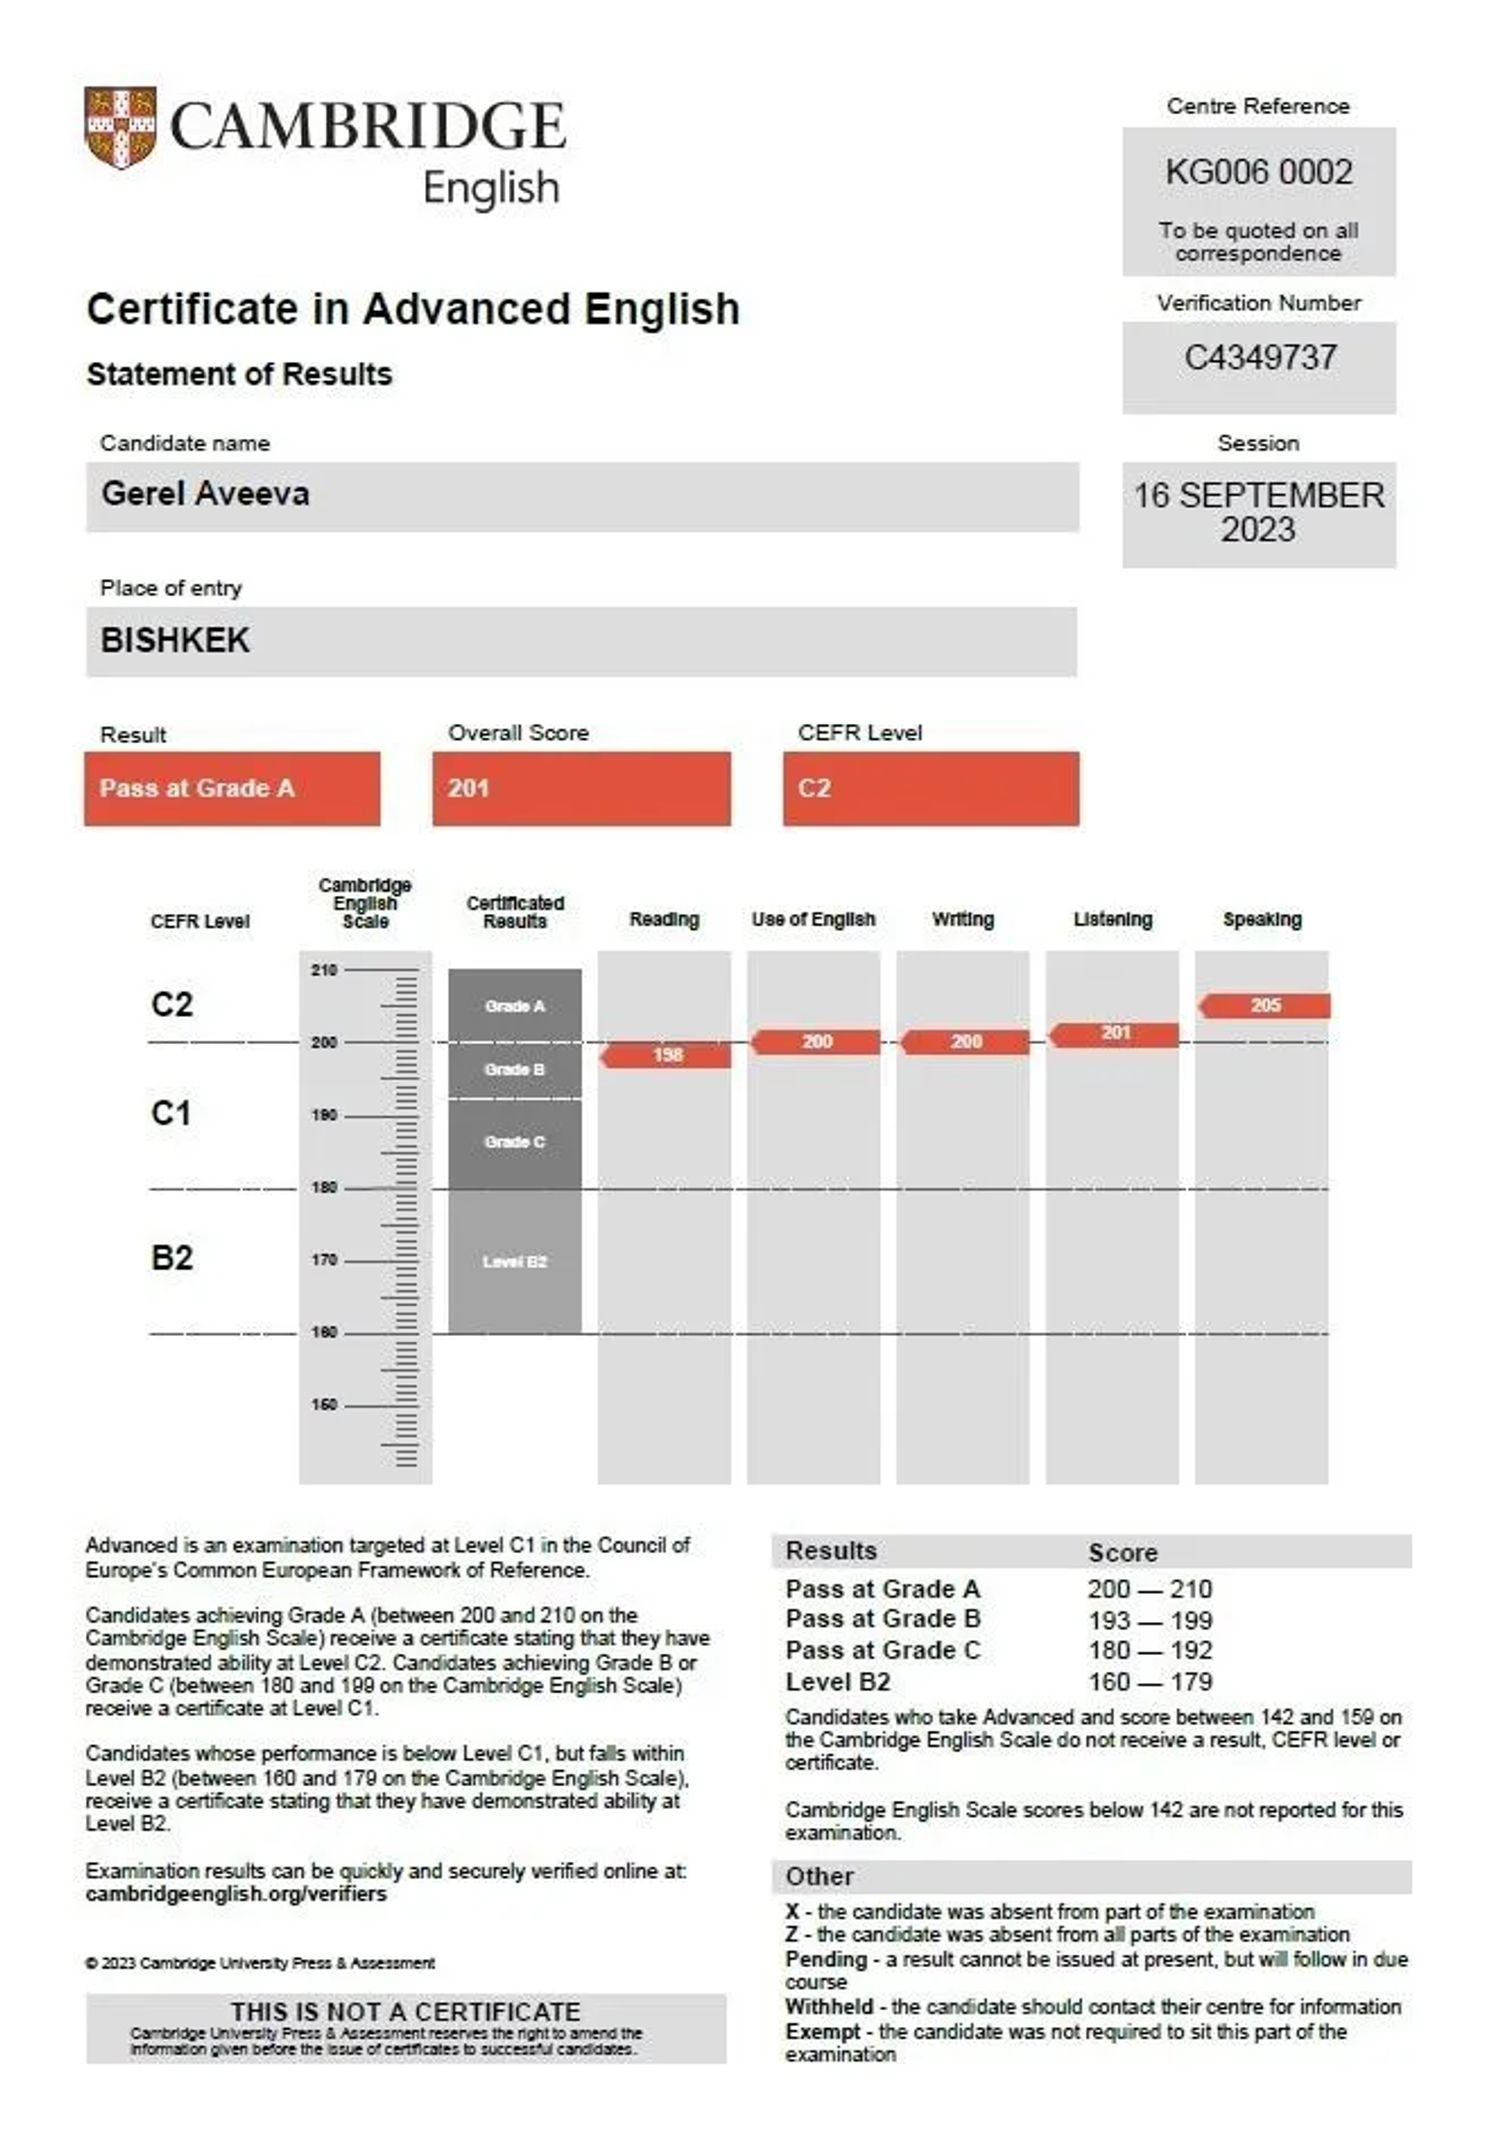
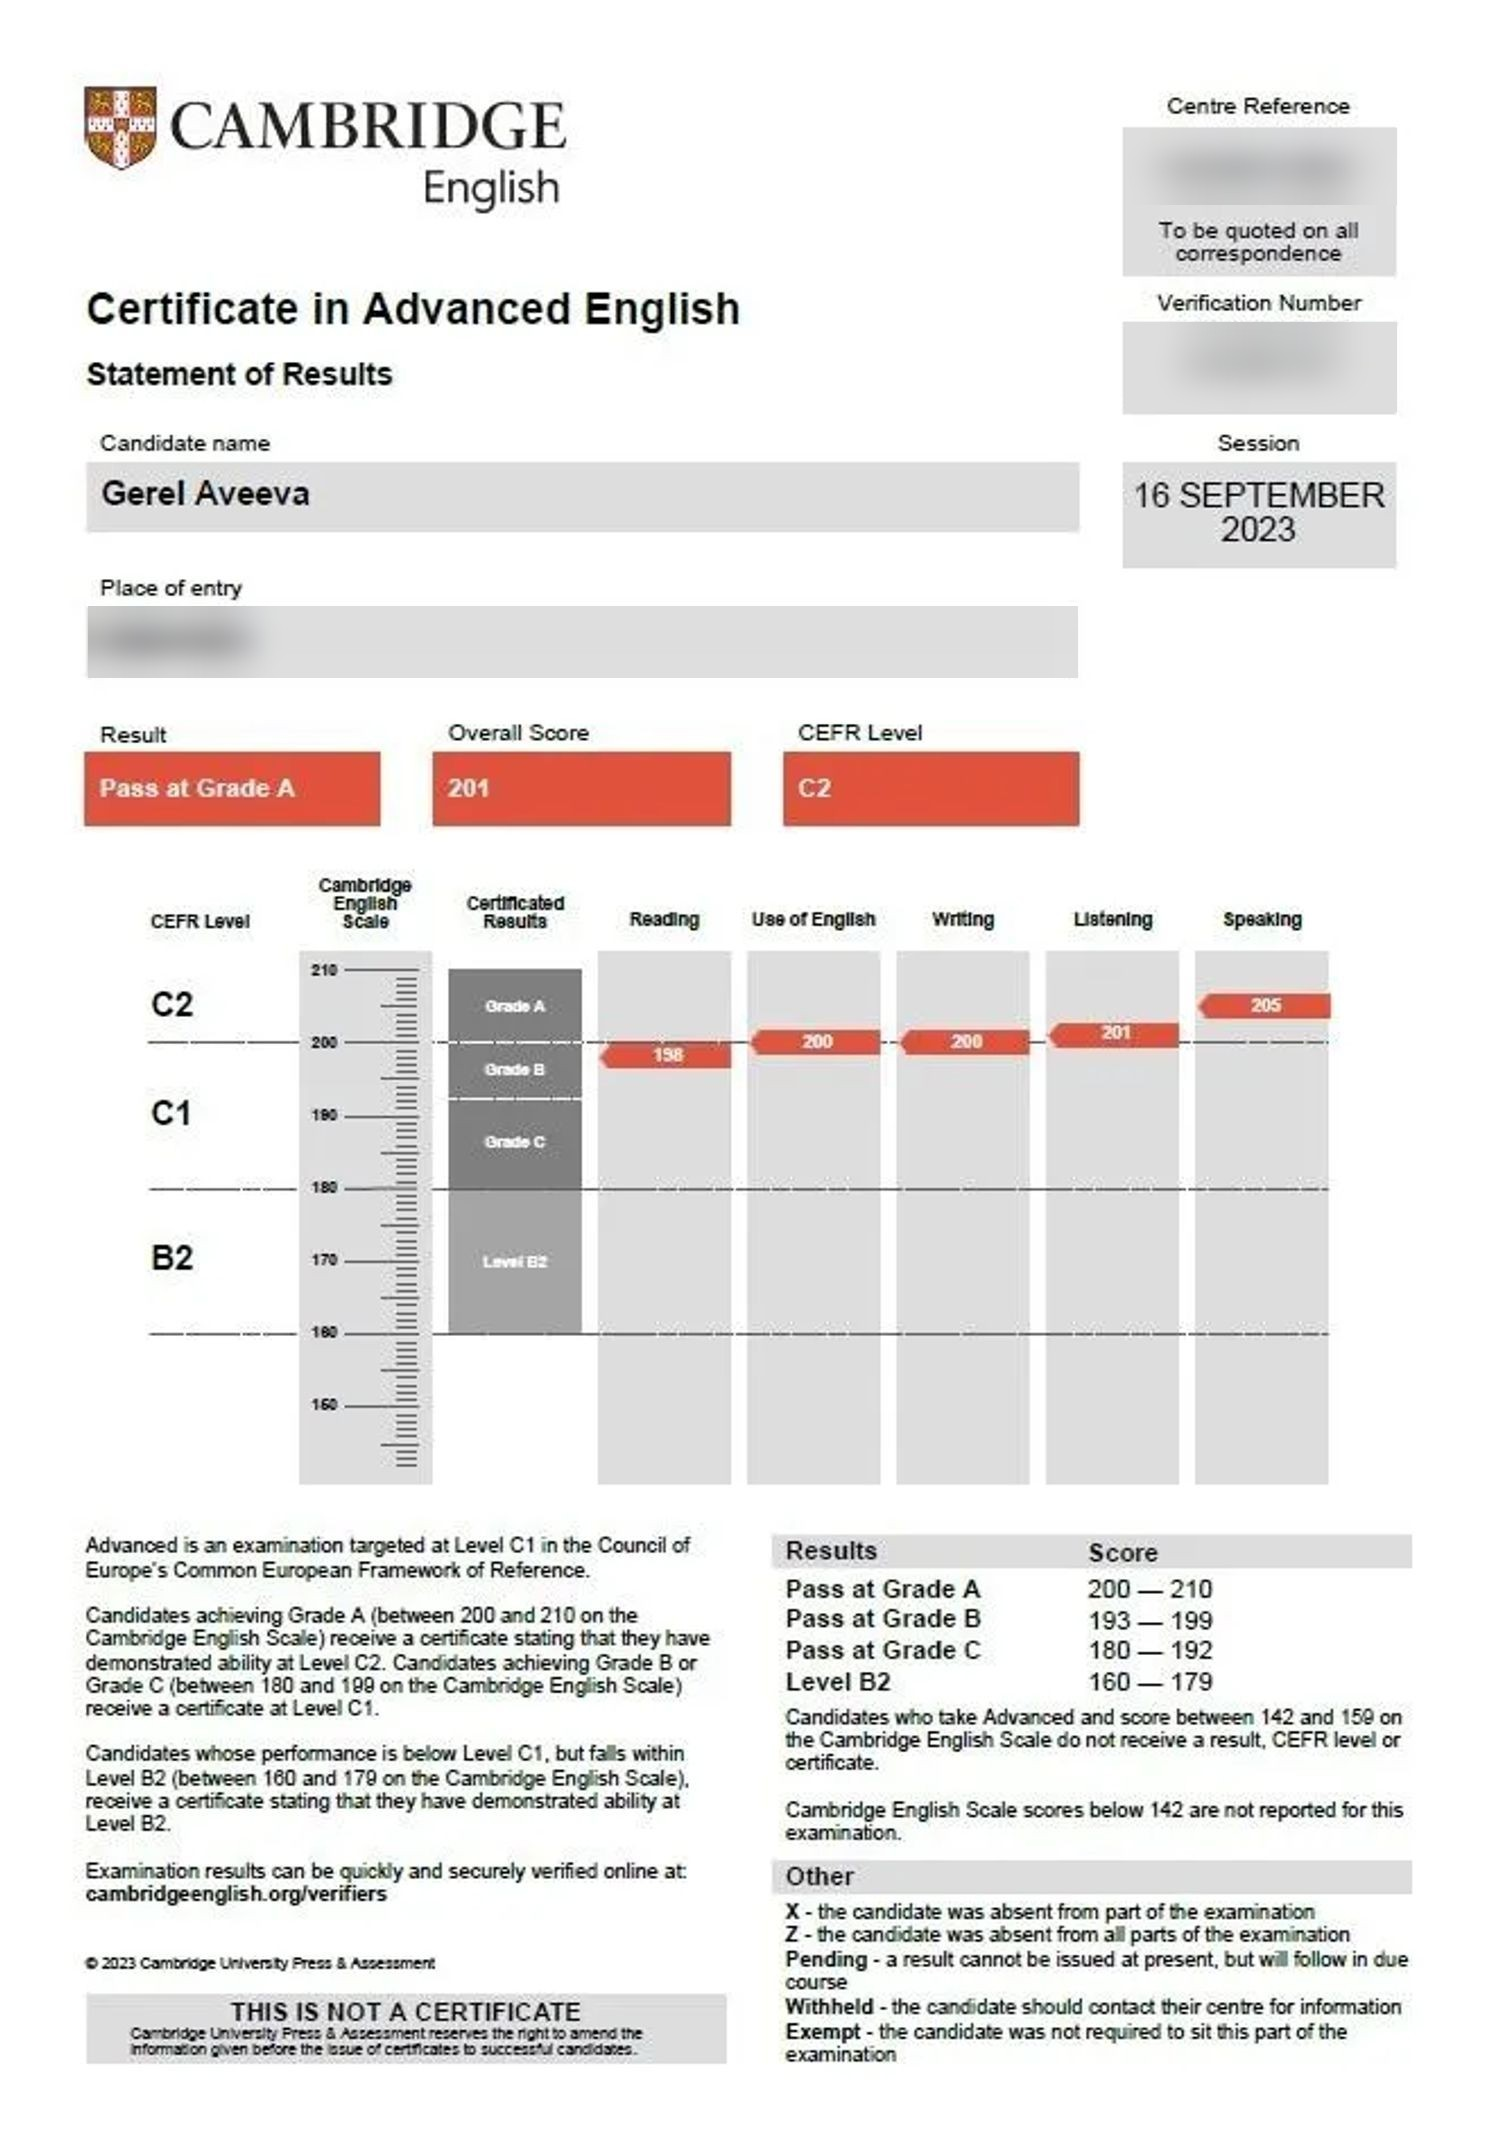
Упрощён первый экран, размыты служебные данные на скане сертификата
- убраны заголовок и кнопка Profi.ru из первого экрана, кнопка записи в контурном стиле
- факты (сертификат, опыт, онлайн) перенесены под кнопку обычным текстом
- на скане размыты номер проверки, код центра и место сдачи
- из блока записи и подвала убран ник Telegram, в подвале ссылка с иконкой

Claude-Session: https://claude.ai/code/session_01JStQRvXM5ZuvUnZUXsp5Ph

Changed region(s): [[0.7667, 0.0617, 0.92, 0.0926], [0.0613, 0.2778, 0.184, 0.3087], [0.7973, 0.1543, 0.8893, 0.1852]]

diff --git a/components/Hero.jsx b/components/Hero.jsx
@@ -1,28 +1,27 @@
-import { contacts } from "../data/content";
 import { asset } from "../lib/asset";
+
+const facts = ["Cambridge C1 Advanced, Grade A (уровень C2)", "Преподаю с 2021 года", "Онлайн"];
 
 export default function Hero() {
   return (
     <section className="container hero">
       <div className="hero-text">
-        <div className="chips">
-          <span className="chip chip-accent">Cambridge C1 Advanced · Grade A, уровень C2</span>
-          <span className="chip">Преподаю с 2021 года</span>
-          <span className="chip">Онлайн</span>
-        </div>
-        <h1>Английский с&nbsp;Герел: интересно, в&nbsp;вашем темпе и&nbsp;без страха ошибок</h1>
+        {/* Заголовок не виден на странице, но нужен поисковикам и экранным дикторам */}
+        <h1 className="visually-hidden">Герел — репетитор английского онлайн</h1>
         <p className="lead">
           Уроки по британским учебникам Oxford и Cambridge на интерактивной доске, с играми для
           запоминания слов и живыми материалами — сериалами, подкастами, статьями.
         </p>
         <div className="actions">
-          <a href="#contact" className="btn btn-dark">
+          <a href="#contact" className="btn btn-outline">
             Записаться на пробный урок
           </a>
-          <a href={contacts.profiUrl} className="btn btn-outline">
-            Мой профиль на Profi.ru
-          </a>
         </div>
+        <ul className="hero-facts">
+          {facts.map((fact) => (
+            <li key={fact}>{fact}</li>
+          ))}
+        </ul>
       </div>
       <div className="hero-photo">
         <img src={asset("/assets/gerel.jpg")} alt="Герел, репетитор английского" />

diff --git a/app/globals.css b/app/globals.css
@@ -226,20 +226,32 @@ h3 {
   display: block;
   box-shadow: 16px 16px 0 var(--accent);
 }
-.chips {
+.hero-facts {
+  list-style: none;
+  margin: 0;
+  padding: 0;
   display: flex;
   flex-wrap: wrap;
-  gap: 8px;
+  gap: 6px 0;
+  font-size: 20px;
+  font-weight: 600;
+  color: var(--ink);
 }
-.chip {
-  background: var(--chip);
-  padding: 6px 14px;
-  border-radius: 999px;
-  font-size: 15px;
-  font-weight: 700;
+.hero-facts li:not(:last-child)::after {
+  content: "·";
+  margin: 0 12px;
+  color: var(--ink-mute);
 }
-.chip-accent {
-  background: var(--accent);
+.visually-hidden {
+  position: absolute;
+  width: 1px;
+  height: 1px;
+  margin: -1px;
+  padding: 0;
+  overflow: hidden;
+  clip: rect(0 0 0 0);
+  white-space: nowrap;
+  border: 0;
 }
 .actions {
   display: flex;
@@ -528,10 +540,15 @@ h3 {
   gap: 14px;
   justify-content: center;
 }
-.contact-handle {
-  text-align: center;
-  font-size: 17px;
-  font-weight: 700;
+.footer-links {
+  display: flex;
+  align-items: center;
+  gap: 10px;
+}
+.footer-tg {
+  display: inline-flex;
+  align-items: center;
+  gap: 6px;
 }
 
 /* Подвал */

diff --git a/components/Footer.jsx b/components/Footer.jsx
@@ -1,11 +1,16 @@
 import { contacts } from "../data/content";
+import Icon from "./Icon";
 
 export default function Footer() {
   return (
     <footer className="container footer">
       <div>© 2026 Герел, репетитор английского</div>
-      <div>
-        <a href={contacts.telegramUrl}>Telegram @{contacts.telegramUser}</a> ·{" "}
+      <div className="footer-links">
+        <a href={contacts.telegramUrl} className="footer-tg">
+          <Icon name="telegram" size={18} />
+          Telegram
+        </a>
+        <span aria-hidden="true">·</span>
         <a href={contacts.profiUrl}>Profi.ru</a>
       </div>
     </footer>

diff --git a/components/Certificate.jsx b/components/Certificate.jsx
@@ -25,8 +25,7 @@ export default function Certificate() {
               ))}
             </div>
             <p className="caption">
-              Результат можно проверить на сайте Cambridge:{" "}
-              <a href={certificate.verifyUrl}>cambridgeenglish.org/verifiers</a>
+              Номер для проверки результата на сайте Cambridge сообщу по запросу.
             </p>
           </div>
           <figure className="certificate-scan">

diff --git a/components/Contact.jsx b/components/Contact.jsx
@@ -15,7 +15,6 @@ export default function Contact() {
               <Icon name="telegram" size={22} />
               Написать в Telegram
             </a>
-            <div className="contact-handle">@{contacts.telegramUser}</div>
             <a href={contacts.profiUrl} className="btn btn-outline">
               Записаться через Profi.ru
             </a>

diff --git a/app/layout.jsx b/app/layout.jsx
@@ -5,7 +5,7 @@ import "./globals.css";
 // поэтому посетители не обращаются к серверам Google.
 const manrope = Manrope({
   subsets: ["latin", "cyrillic"],
-  weight: ["400", "500", "700"],
+  weight: ["400", "500", "600", "700"],
   variable: "--font-body",
   display: "swap",
 });

diff --git a/data/content.js b/data/content.js
@@ -105,7 +105,6 @@ export const certificate = {
     { name: "Listening", value: 201 },
     { name: "Speaking", value: 205, highlight: true },
   ],
-  verifyUrl: "https://www.cambridgeenglish.org/verifiers",
 };
 
 export const reviews = [
